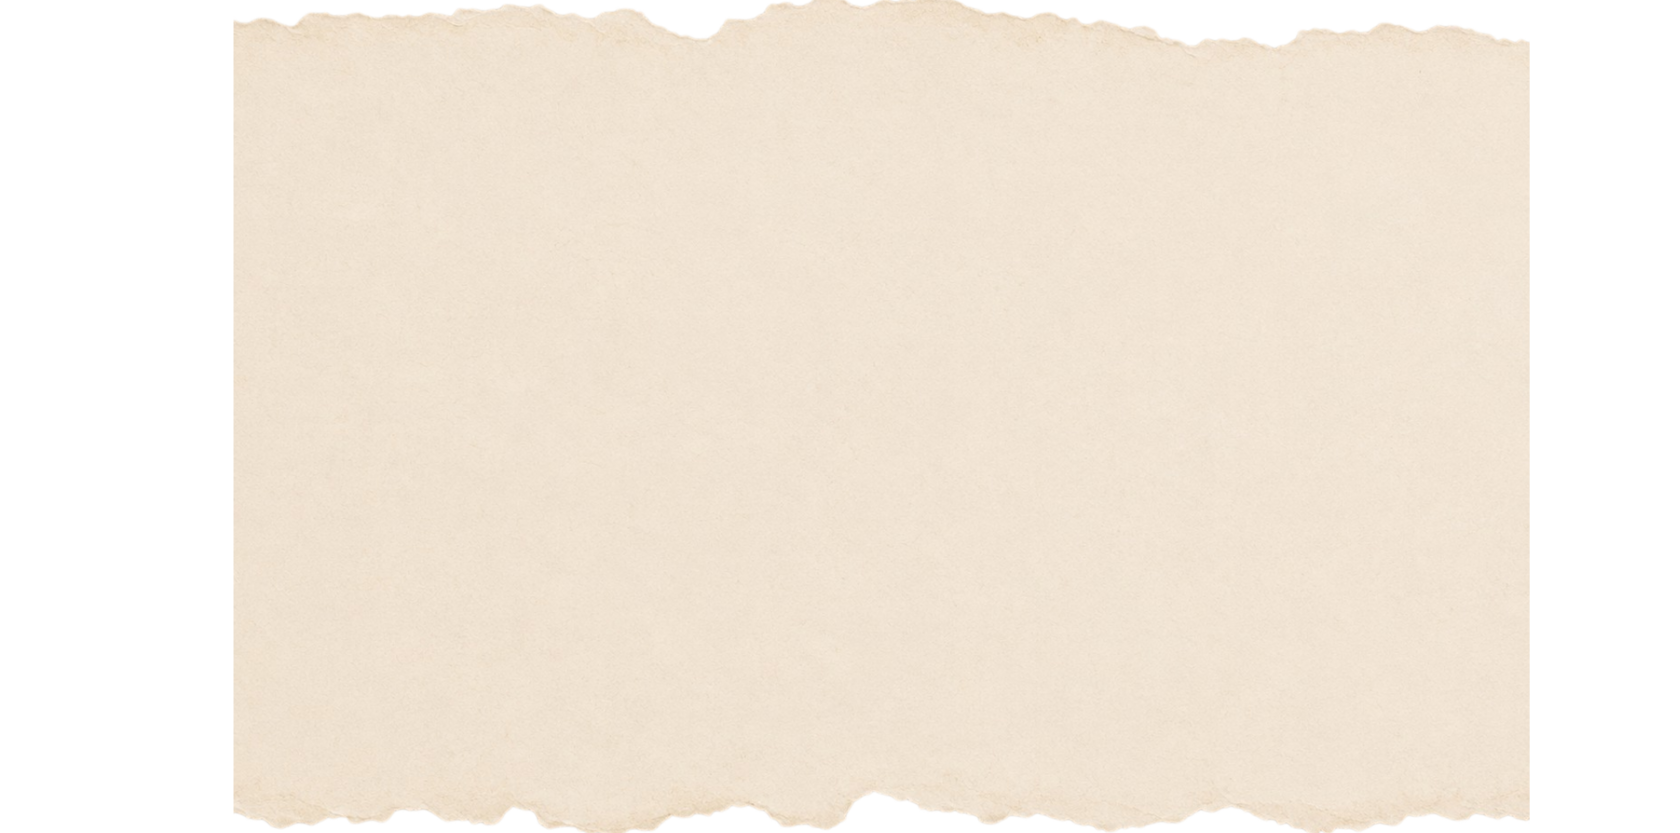
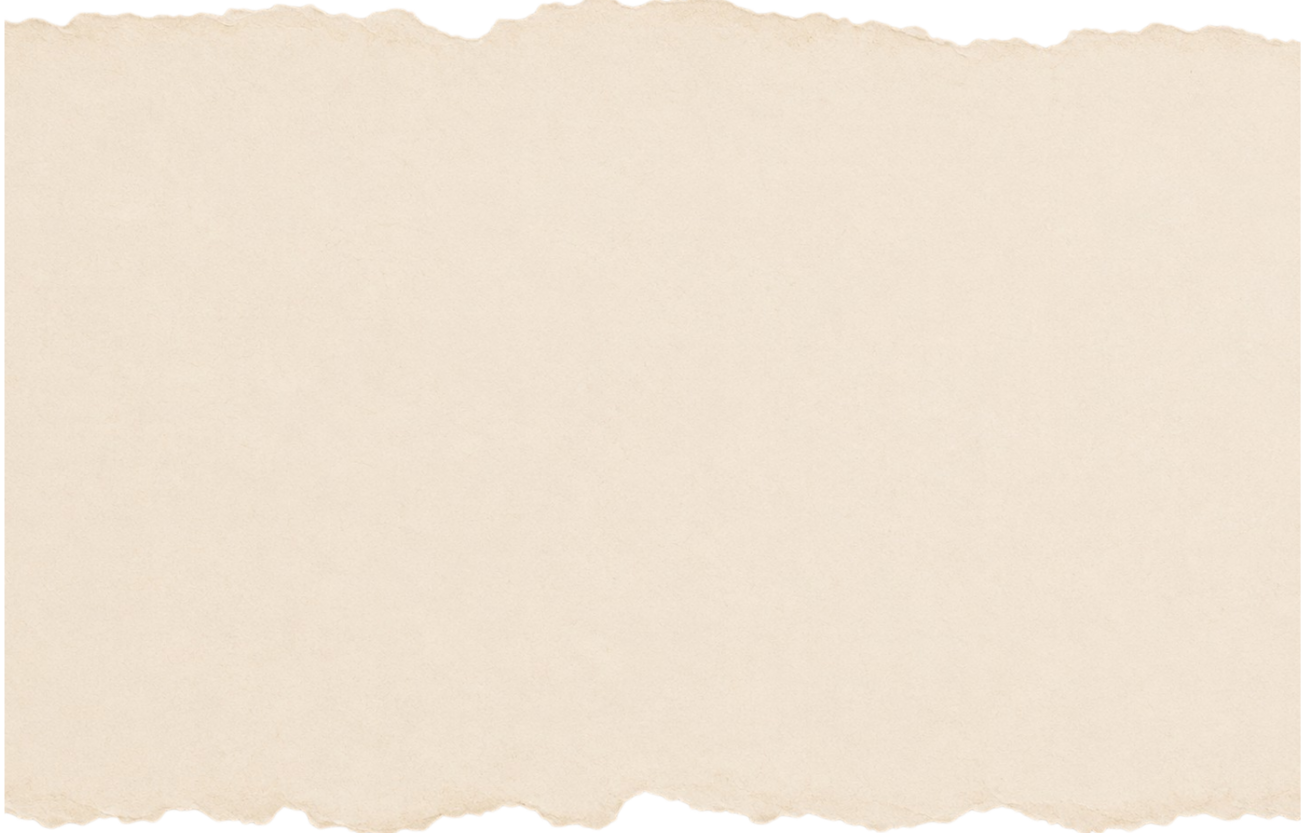
Center program paper card and add side padding
Claude-Session: https://claude.ai/code/session_016tHfzSQia2MngbCAnbrKrE

diff --git a/index.html b/index.html
@@ -194,7 +194,7 @@
   .program-paper{
     background-image:url("assets/torn-paper.png");
     background-size:100% 100%;
-    padding:4.6rem 1.6rem 5rem;
+    padding:4.6rem clamp(2.2rem,9vw,3.4rem) 5rem;
     filter:drop-shadow(0 14px 26px rgba(108,81,63,.13));
   }
   .event{
